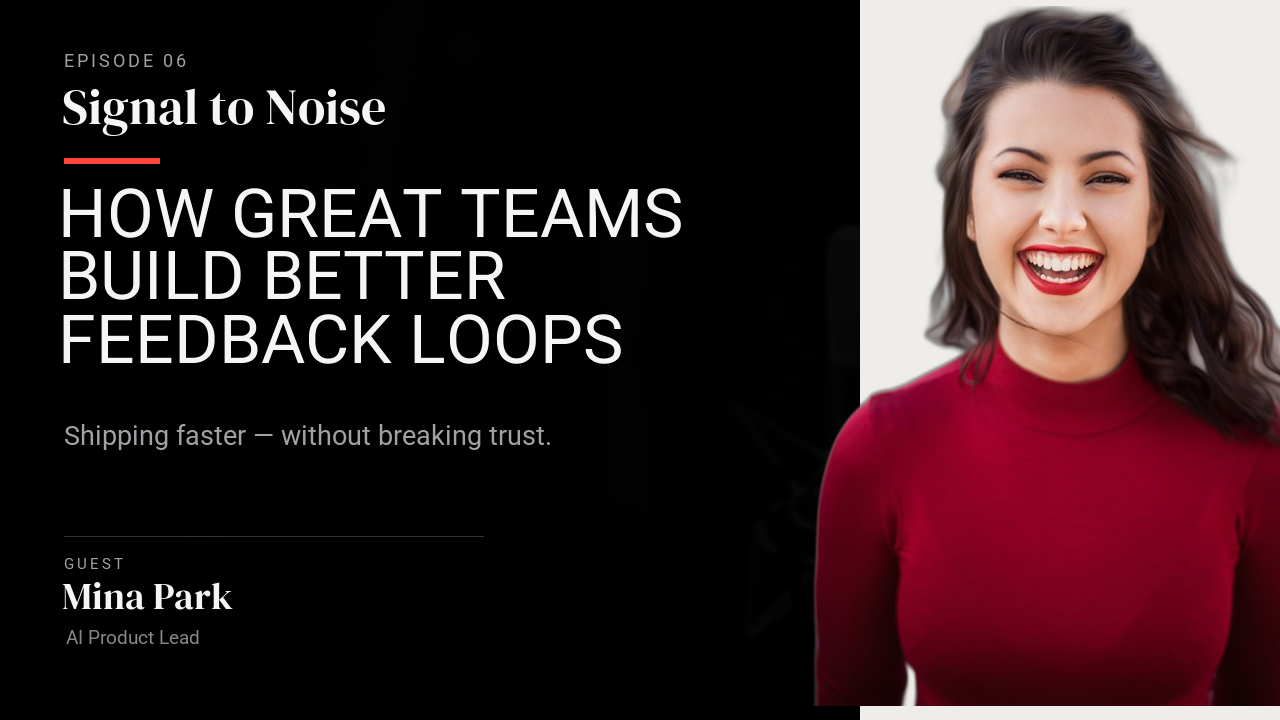
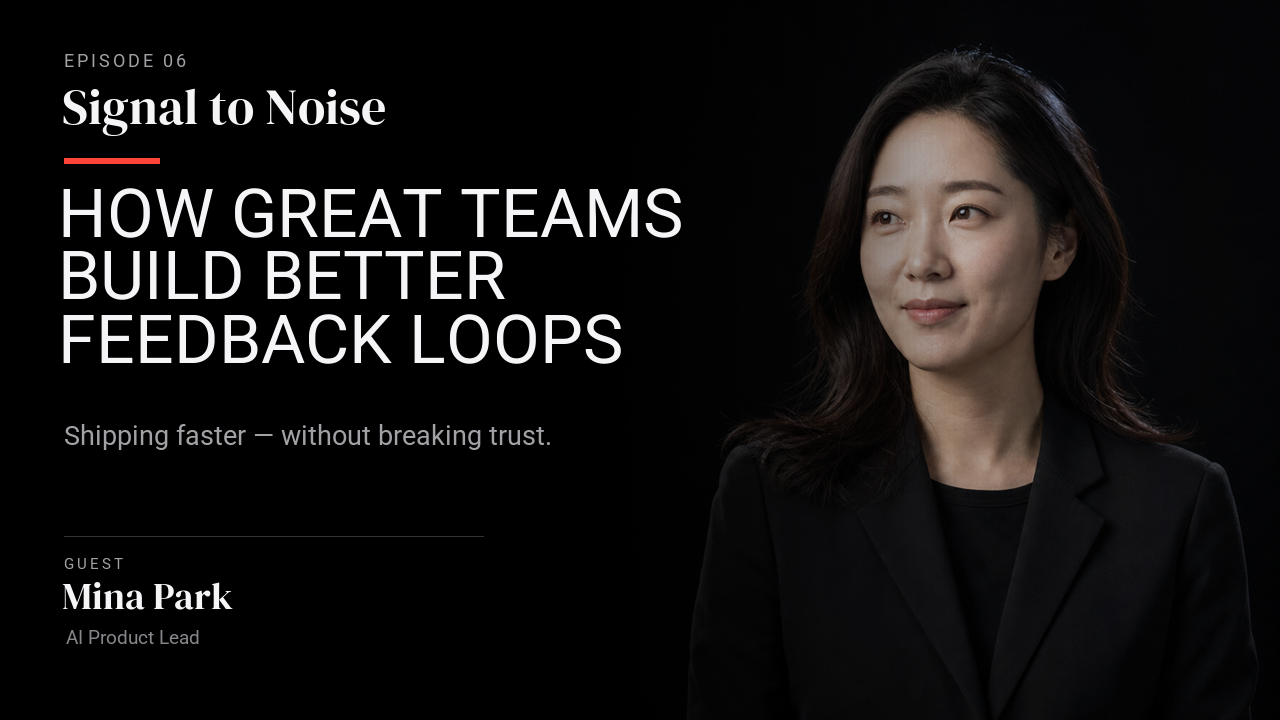
feat: refine podcast portrait composition

diff --git a/examples/podcast_interview_promo.py b/examples/podcast_interview_promo.py
@@ -2,14 +2,14 @@
 Podcast / interview promo example.
 
 Demonstrates:
-- Remote image URLs for the background and speaker portraits
+- Local editorial portrait assets used as full-bleed backgrounds
 - Webfont loading from a URL for the show title
-- Background removal on image overlays for cutout-style portraits
+- Tonal gradients that preserve portrait detail behind high-contrast copy
 """
 
 import os
 
-from quickthumb import Canvas, Filter, FitMode, LinearGradient
+from quickthumb import Canvas, FitMode, LinearGradient
 
 FILE_DIR = os.path.dirname(__file__)
 ASSETS_DIR = os.path.join(FILE_DIR, "..", "assets")
@@ -18,33 +18,25 @@ OUTPUT_PATH = os.path.join(FILE_DIR, "podcast_interview_promo.png")
 os.environ["QUICKTHUMB_FONT_DIR"] = os.path.join(ASSETS_DIR, "fonts")
 os.environ["QUICKTHUMB_DEFAULT_FONT"] = "Roboto"
 
-BACKGROUND_URL = (
-    "https://images.unsplash.com/photo-1478737270239-2f02b77fc618?auto=format&fit=crop&w=1600&q=80"
-)
-GUEST_URL = (
-    "https://images.unsplash.com/photo-1494790108377-be9c29b29330?auto=format&fit=crop&w=900&q=80"
-)
+GUEST_IMAGE_PATH = os.path.join(ASSETS_DIR, "images", "podcast-guest-editorial.png")
 SHOW_FONT_URL = "https://fonts.gstatic.com/s/dmserifdisplay/v17/-nFnOHM81r4j6k0gjAW3mujVU2B2K_c.ttf"
 
 (
     Canvas(1280, 720)
     .background(
-        image=BACKGROUND_URL,
+        image=GUEST_IMAGE_PATH,
         fit=FitMode.COVER,
-        effects=[Filter(brightness=0.3, saturation=0.35, blur=2)],
     )
     .background(
         gradient=LinearGradient(
             angle=0,
-            stops=[("#000000", 0.0), ("#000000F2", 0.5), ("#00000080", 1.0)],
+            stops=[
+                ("#000000", 0.0),
+                ("#000000F7", 0.48),
+                ("#00000030", 0.72),
+                ("#00000000", 1.0),
+            ],
         )
-    )
-    .shape(
-        shape="rectangle",
-        position=(860, 0),
-        width=420,
-        height=720,
-        color="#EEEDE9",
     )
     .text(
         content="EPISODE 06",
@@ -113,17 +105,8 @@ SHOW_FONT_URL = "https://fonts.gstatic.com/s/dmserifdisplay/v17/-nFnOHM81r4j6k0g
         weight=500,
         position=(66, 630),
     )
-    .image(
-        path=GUEST_URL,
-        position=(1070, 706),
-        width=590,
-        height=700,
-        fit=FitMode.COVER,
-        align=("center", "bottom"),
-        remove_background=True,
-    )
     .render(OUTPUT_PATH)
 )
 
 print(f"✓ Podcast / interview promo created: {OUTPUT_PATH}")
-print("  This example requires network access and quickthumb[rembg] for portrait cutouts.")
+print("  This example requires network access only for the display webfont.")

diff --git a/examples/README.md b/examples/README.md
@@ -112,12 +112,12 @@ Output: `podcast_interview_promo.png`
 
 Shows:
 
-- Remote image URLs for both the background photo and the speaker portrait
+- A local, full-bleed editorial portrait composed directly into the dark stage
 - A webfont loaded from a URL for the show-title treatment
-- `remove_background=True` on the portrait layer for a cutout-style guest visual
-- Layered promo-card styling with shapes, shadows, and heavy headline typography
+- A tonal gradient that protects copy contrast without boxing in the subject
+- Restrained editorial typography and a single semantic accent
 
-Use it when you want an end-to-end podcast or interview promo example that exercises quickthumb's network-backed asset loading and portrait cutout workflow.
+Use it when you want a podcast or interview promo that integrates photography without visible cutout edges or a disconnected image panel.
 
 ### `shorts_cover_agent.py`
 
